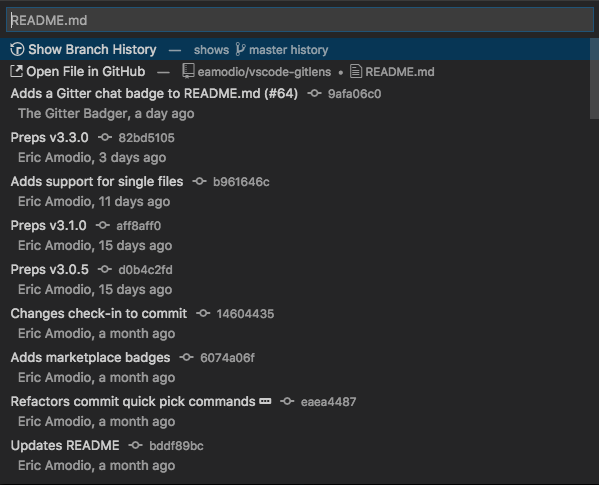
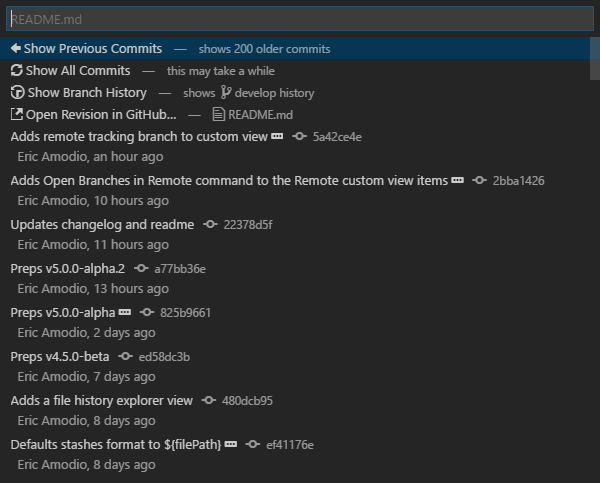
Updates images

Changed region(s): [[0.0, 0.0, 1.0, 1.0], [0.9616, 0.1553, 1.0, 0.2484]]

diff --git a/README.md b/README.md
@@ -10,7 +10,7 @@ GitLens **supercharges** the built-in Visual Studio Code Git capabilities. It he
 GitLens provides an unobtrusive blame annotation at the end of the current line, a status bar item showing the commit information (author and date, by default) of the current line, code lens showing the most recent commit and # of authors of the file and/or code block, and many commands for exploring commits and histories, comparing and navigating revisions, stash access, repository status, and more. GitLens is also [highly customizable](#extension-settings) to meet your specific needs — find code lens intrusive or the current line blame annotation distracting — no problem, it is easy to [turn them off or change how they behave](#extension-settings).
 
 ### Preview — featuring blame annotations, code lens, status bar details, quick pick menus for navigation and exploration, compare with previous, and more
-![GitLens preview](https://raw.githubusercontent.com/eamodio/vscode-gitlens/master/images/gitlens-preview.gif)
+![GitLens preview](https://raw.githubusercontent.com/eamodio/vscode-gitlens/develop/images/gitlens-preview.gif)
 
 ## Features
 
@@ -18,16 +18,16 @@ GitLens provides an unobtrusive blame annotation at the end of the current line,
 
 - Adds an unobtrusive, highly [customizable](#line-blame-annotation-settings) and [themeable](#theme-settings), **Git blame annotation** to the end of the current line ([optional](#line-blame-annotation-settings), on by default)
 
-  ![Line Blame Annotation](https://raw.githubusercontent.com/eamodio/vscode-gitlens/master/images/screenshot-line-blame-annotation.png)
+  ![Line Blame Annotation](https://raw.githubusercontent.com/eamodio/vscode-gitlens/develop/images/screenshot-line-blame-annotation.png)
   - Contains the author, date, and message of the line's most recent commit, by [default](#line-blame-annotation-settings)
   - Adds a `details` hover annotation to the current line annotation, which provides more commit details ([optional](#line-blame-annotation-settings), on by default)
   - Adds a `changes` (diff) hover annotation to the current line annotation, which provides **instant** access to the line's previous version ([optional](#line-blame-annotation-settings), on by default)
 
-    ![Line Blame Annotations](https://raw.githubusercontent.com/eamodio/vscode-gitlens/master/images/screenshot-line-blame-annotations.png)
+    ![Line Blame Annotations](https://raw.githubusercontent.com/eamodio/vscode-gitlens/develop/images/screenshot-line-blame-annotations.png)
 
 - Adds on-demand, beautiful, highly [customizable](#file-blame-annotation-settings) and [themeable](#theme-settings), **Git blame annotations** of the whole file
 
-  ![File Blame Annotation](https://raw.githubusercontent.com/eamodio/vscode-gitlens/master/images/screenshot-file-blame-annotations.png)
+  ![File Blame Annotation](https://raw.githubusercontent.com/eamodio/vscode-gitlens/develop/images/screenshot-file-blame-annotations.png)
   - Choose between `gutter` (default) and `hover` [annotation styles](#file-blame-annotation-settings)
   - Contains the commit message and date, by [default](#file-blame-annotation-settings)
   - Adds a `details` hover annotation to the line's annotation, which provides more commit details ([optional](#file-blame-annotation-settings), on by default)
@@ -37,7 +37,7 @@ GitLens provides an unobtrusive blame annotation at the end of the current line,
 
 - Adds [customizable](#status-bar-settings) **blame information** about the current line to the **status bar**  ([optional](#status-bar-settings), on by default)
 
-  ![Status Bar Blame](https://raw.githubusercontent.com/eamodio/vscode-gitlens/master/images/screenshot-status-bar.png)
+  ![Status Bar Blame](https://raw.githubusercontent.com/eamodio/vscode-gitlens/develop/images/screenshot-status-bar.png)
   - Contains the commit author and date, by [default](#status-bar-settings)
   - Clicking the status bar item will, by [default](#status-bar-settings), show a **commit details quick pick menu** with commands for comparing, navigating and exploring commits, and more
   - Provides [customizable](#status-bar-settings) click behavior — choose between one of the following
@@ -70,7 +70,7 @@ GitLens provides an unobtrusive blame annotation at the end of the current line,
 
 - Adds **code lens** to the top of the file and on code blocks ([optional](#code-lens-settings), on by default)
 
-  ![Git Code Lens](https://raw.githubusercontent.com/eamodio/vscode-gitlens/master/images/screenshot-code-lens.png)
+  ![Git Code Lens](https://raw.githubusercontent.com/eamodio/vscode-gitlens/develop/images/screenshot-code-lens.png)
   - **Recent Change** — author and date of the most recent commit for the file or code block
     - Clicking the code lens will, by [default](#code-lens-settings), show a **commit file details quick pick menu** with commands for comparing, navigating and exploring commits, and more
   - **Authors** — number of authors of the file or code block and the most prominent author (if there is more than one)
@@ -115,7 +115,7 @@ GitLens provides an unobtrusive blame annotation at the end of the current line,
 
   - `Repository View` - provides a full repository explorer
 
-    ![GitLens Repository view](https://raw.githubusercontent.com/eamodio/vscode-gitlens/master/images/screenshot-git-custom-view-repository.png)
+    ![GitLens Repository view](https://raw.githubusercontent.com/eamodio/vscode-gitlens/develop/images/screenshot-git-custom-view-repository.png)
 
     - `Repository Status` node — provides the status of the repository
       - Provides the name of the current branch, its upstream tracking branch (if available), and its upstream status (if available)
@@ -153,7 +153,7 @@ GitLens provides an unobtrusive blame annotation at the end of the current line,
 
   - `History View` - provides the revision history of the active file
 
-    ![GitLens History view](https://raw.githubusercontent.com/eamodio/vscode-gitlens/master/images/screenshot-git-custom-view-history.png)
+    ![GitLens History view](https://raw.githubusercontent.com/eamodio/vscode-gitlens/develop/images/screenshot-git-custom-view-history.png)
 
     - Automatically updates to track the active editor
     - Provides a context menu with `Open File`, `Open File in Remote`, and `Refresh` commands
@@ -173,7 +173,7 @@ GitLens provides an unobtrusive blame annotation at the end of the current line,
 
 - Adds a `Show Current Branch History` command (`gitlens.showQuickRepoHistory`) with a shortcut of `shift+alt+h` to show a paged **branch history quick pick menu** of the current branch for exploring its commit history
 
-  ![Branch History Quick Pick Menu](https://raw.githubusercontent.com/eamodio/vscode-gitlens/master/images/screenshot-branch-history.png)
+  ![Branch History Quick Pick Menu](https://raw.githubusercontent.com/eamodio/vscode-gitlens/develop/images/screenshot-branch-history.png)
 
   - Provides entries to `Show Commit Search` and `Open Branch in <remote-service>` when available
   - Navigate back to the previous quick pick menu via `alt+left arrow`, if available
@@ -184,7 +184,7 @@ GitLens provides an unobtrusive blame annotation at the end of the current line,
 
 - Adds a `Show File History` command (`gitlens.showQuickFileHistory`) to show a paged **file history quick pick menu** of the active file for exploring its commit history
 
-  ![File History Quick Pick Menu](https://raw.githubusercontent.com/eamodio/vscode-gitlens/master/images/screenshot-file-history.png)
+  ![File History Quick Pick Menu](https://raw.githubusercontent.com/eamodio/vscode-gitlens/develop/images/screenshot-file-history.png)
 
   - Provides entries to `Show Branch History` and `Open File in <remote-service>` when available
   - Navigate back to the previous quick pick menu via `alt+left arrow`, if available
@@ -192,7 +192,7 @@ GitLens provides an unobtrusive blame annotation at the end of the current line,
 
 - Adds a `Show Commit Details` command (`gitlens.showQuickCommitDetails`) to show a **commit details quick pick menu** of the most recent commit of the active file
 
-  ![Commit Details Quick Pick Menu](https://raw.githubusercontent.com/eamodio/vscode-gitlens/master/images/screenshot-commit-details.png)
+  ![Commit Details Quick Pick Menu](https://raw.githubusercontent.com/eamodio/vscode-gitlens/develop/images/screenshot-commit-details.png)
 
   - Quickly see the set of files changed in the commit, complete with status indicators for adds, changes, renames, and deletes
   - Provides entries to `Copy to Clipboard`, `Directory Compare`, `Open Changed Files`, `Open File in <remote-service>` when available, and more
@@ -202,7 +202,7 @@ GitLens provides an unobtrusive blame annotation at the end of the current line,
 
 - Adds a `Show Commit File Details` command (`gitlens.showQuickCommitFileDetails`) with a shortcut of `alt+c` to show a **file commit details quick pick menu** of the most recent commit of the active file
 
-  ![Commit File Details Quick Pick Menu](https://raw.githubusercontent.com/eamodio/vscode-gitlens/master/images/screenshot-commit-file-details.png)
+  ![Commit File Details Quick Pick Menu](https://raw.githubusercontent.com/eamodio/vscode-gitlens/develop/images/screenshot-commit-file-details.png)
 
   - Provides entries to `Show Commit Details`, `Show File History`, `Compare File with...`, `Copy to Clipboard`, `Open File`, `Open File in <remote-service>` when available, and more
   - Navigate back to the previous quick pick menu via `alt+left arrow`, if available
@@ -210,7 +210,7 @@ GitLens provides an unobtrusive blame annotation at the end of the current line,
 
 - Adds a `Show Repository Status` command (`gitlens.showQuickRepoStatus`) with a shortcut of `alt+s` to show a **repository status quick pick menu** for visualizing the current repository status
 
-  ![Repository Status Quick Pick Menu](https://raw.githubusercontent.com/eamodio/vscode-gitlens/master/images/screenshot-repo-status.png)
+  ![Repository Status Quick Pick Menu](https://raw.githubusercontent.com/eamodio/vscode-gitlens/develop/images/screenshot-repo-status.png)
 
   - Quickly see upstream status (if an Git upstream is configured) — complete with ahead and behind information
     - If you are ahead of the upstream, an entry will be shown with the number of commits ahead. Choosing it will show a limited **branch history quick pick menu** containing just the commits ahead of the upstream
@@ -222,14 +222,14 @@ GitLens provides an unobtrusive blame annotation at the end of the current line,
 
 - Adds a `Show Stashed Changes` command (`gitlens.showQuickStashList`) to show a **stashed changes quick pick menu** for exploring your repository stash history
 
-  ![Stashed Changes Quick Pick Menu](https://raw.githubusercontent.com/eamodio/vscode-gitlens/master/images/screenshot-stash-list.png)
+  ![Stashed Changes Quick Pick Menu](https://raw.githubusercontent.com/eamodio/vscode-gitlens/develop/images/screenshot-stash-list.png)
 
   - Provides entries to `Stash Changes`
   - Navigate back to the previous quick pick menu via `alt+left arrow`, if available
 
   - Choosing a stash entry shows a **stash details quick pick menu** which is very similar to the **commit details quick pick menu** above
 
-    ![Stash Details Quick Pick Menu](https://raw.githubusercontent.com/eamodio/vscode-gitlens/master/images/screenshot-stash-details.png)
+    ![Stash Details Quick Pick Menu](https://raw.githubusercontent.com/eamodio/vscode-gitlens/develop/images/screenshot-stash-details.png)
 
     - Quickly see the set of files changed in the stash, complete with status indicators for adds, changes, renames, and deletes
     - Provides entries to `Copy Message to Clipboard`, `Directory Compare`, and `Open Changed Files`

diff --git a/CHANGELOG.md b/CHANGELOG.md
@@ -10,7 +10,7 @@ The format is based on [Keep a Changelog](http://keepachangelog.com/) and this p
 
   - `Repository View` - provides a full repository explorer
 
-    ![GitLens Repository view](https://raw.githubusercontent.com/eamodio/vscode-gitlens/master/images/screenshot-git-custom-view-repository.png)
+    ![GitLens Repository view](https://raw.githubusercontent.com/eamodio/vscode-gitlens/develop/images/screenshot-git-custom-view-repository.png)
 
     - `Repository Status` node — provides the status of the repository
       - Provides the name of the current branch, its upstream tracking branch (if available), and its upstream status (if available)
@@ -48,7 +48,7 @@ The format is based on [Keep a Changelog](http://keepachangelog.com/) and this p
 
   - `History View` - provides the revision history of the active file
 
-    ![GitLens History view](https://raw.githubusercontent.com/eamodio/vscode-gitlens/master/images/screenshot-git-custom-view-history.png)
+    ![GitLens History view](https://raw.githubusercontent.com/eamodio/vscode-gitlens/develop/images/screenshot-git-custom-view-history.png)
 
     - Automatically updates to track the active editor
     - Provides a context menu with `Open File`, `Open File in Remote`, and `Refresh` commands
@@ -147,7 +147,7 @@ The format is based on [Keep a Changelog](http://keepachangelog.com/) and this p
 ## Added
 - Adds `Git Stashes` custom view to the Explorer activity
 
-  ![Git Stashes view](https://raw.githubusercontent.com/eamodio/vscode-gitlens/master/images/screenshot-git-stashes.png)
+  ![Git Stashes view](https://raw.githubusercontent.com/eamodio/vscode-gitlens/develop/images/screenshot-git-stashes.png)
 
   - Shows all of the stashed changes in the repository
   - Provides toolbar buttons to `Stash Changes` and `Refresh`
